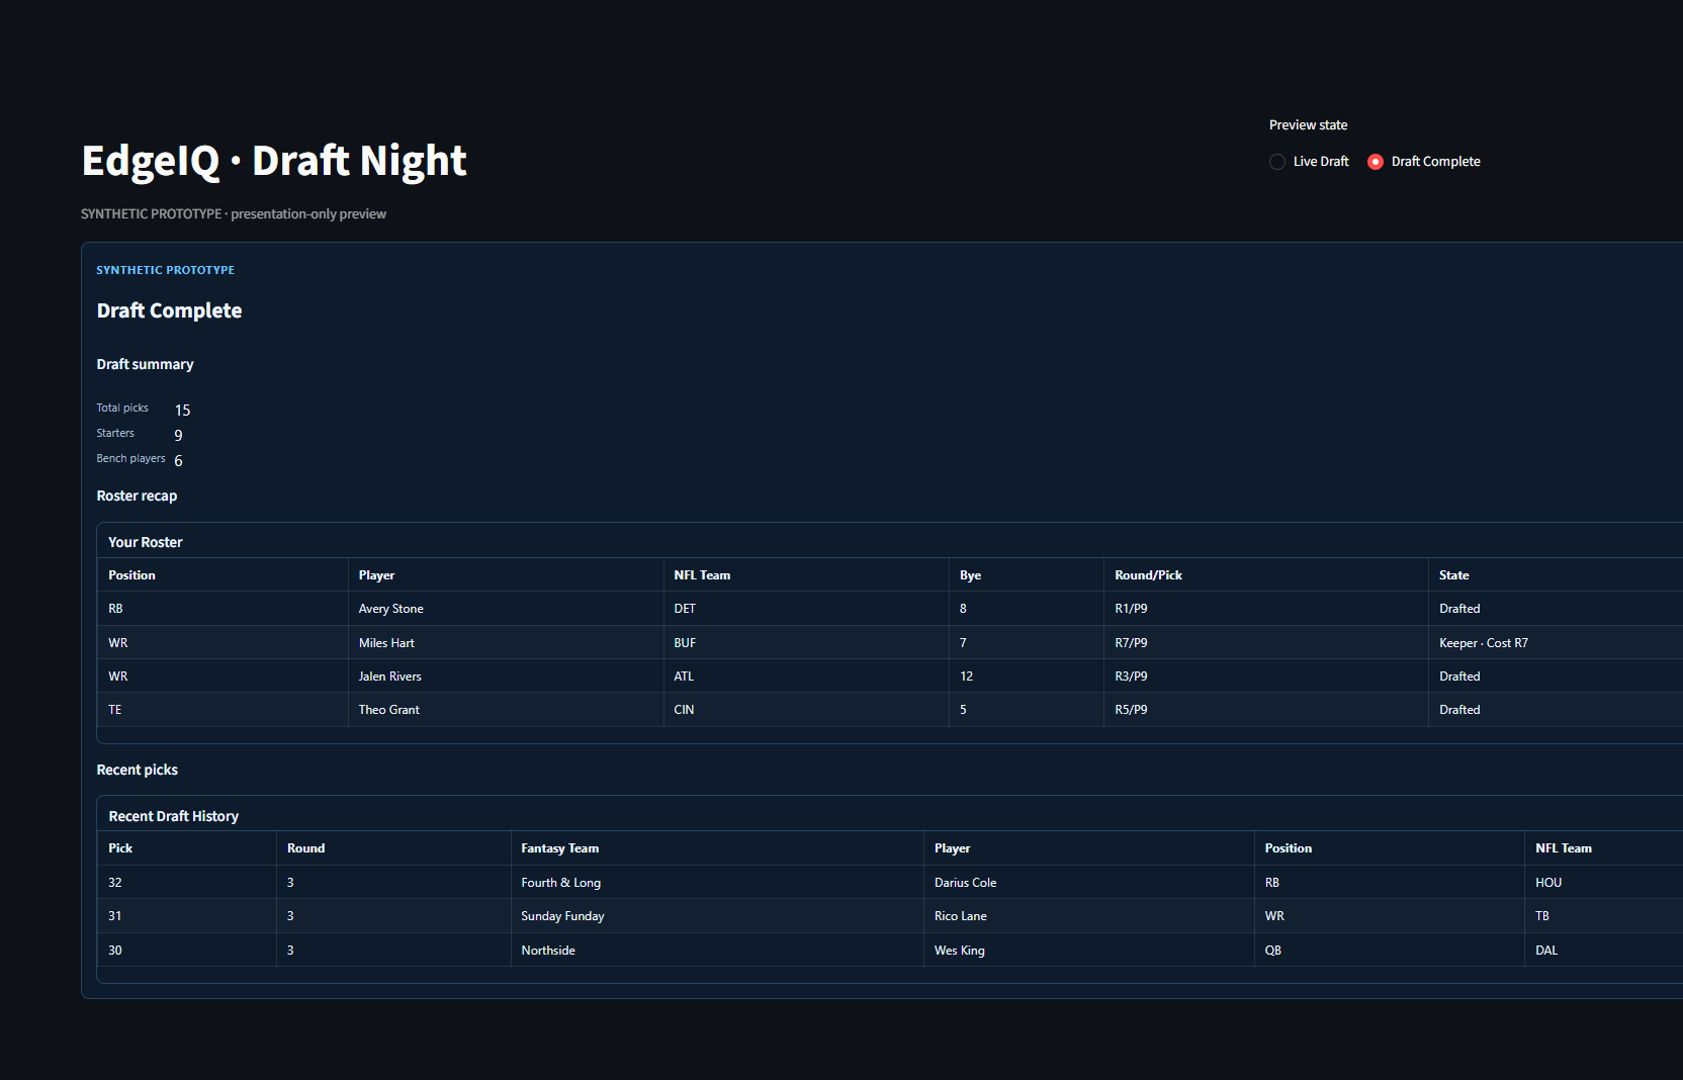
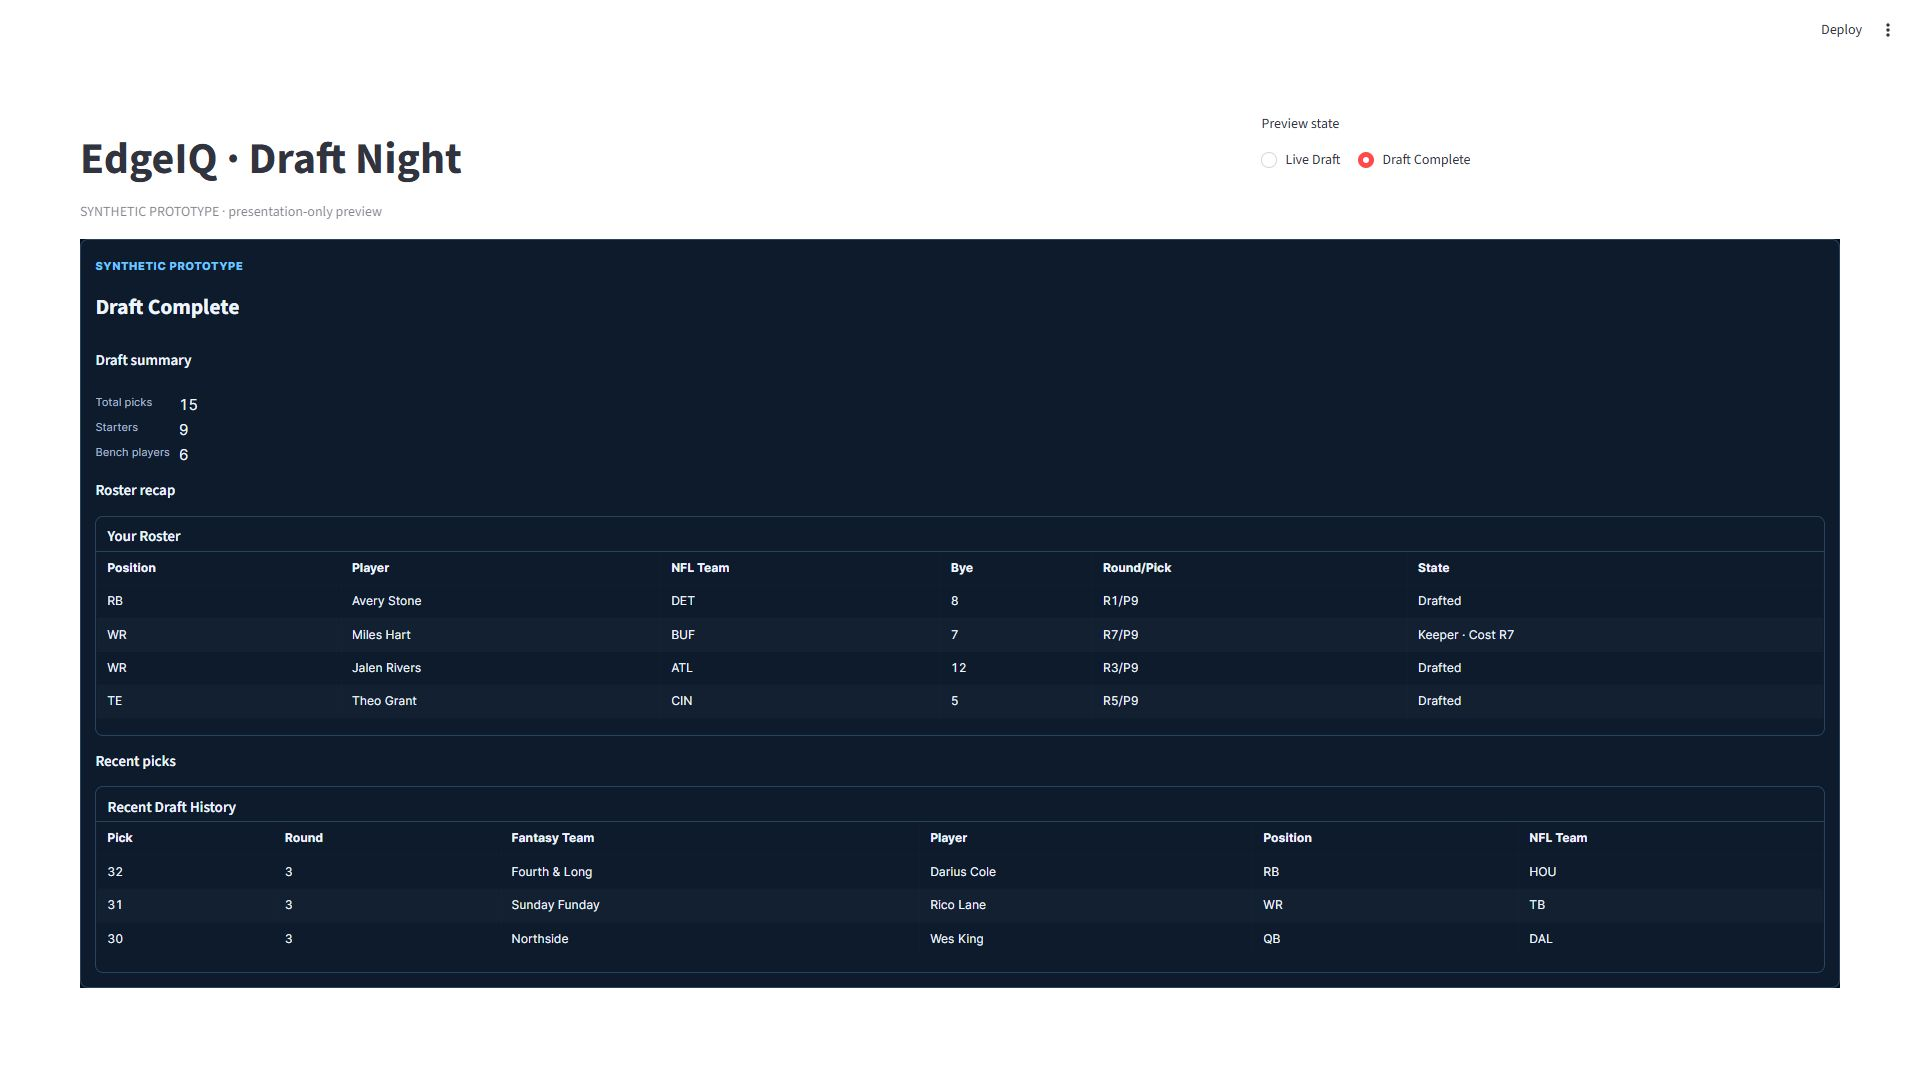
test: recapture exact draft-night wide preview

diff --git a/.superpowers/sdd/2026-08-20-edgeiq-draft-night-frontend-prototype/task-4-report.md b/.superpowers/sdd/2026-08-20-edgeiq-draft-night-frontend-prototype/task-4-report.md
@@ -14,7 +14,7 @@ The preview was started on `localhost:8517`; `GET http://localhost:8517/_stcore/
 
 ## Live Draft observations
 
-Browser inspection used the in-app browser against the running local preview.
+Initial browser inspection used the in-app browser against the running local preview. The corrected wide evidence capture described below used the available Chrome extension backend after that in-app session disconnected.
 
 | Viewport | Page overflow | Board / right rail | Scroll and sticky header | Header and contrast |
 | --- | --- | --- | --- | --- |
@@ -25,7 +25,7 @@ At both viewports, the board is the dominant live surface, the right rail remain
 
 ## Draft Complete observation (1920 x 1080)
 
-The state selector was switched in the running preview. The `Draft Complete` heading is prominent at `y = 275` (21.6 px); its heading-to-panel contrast measured 15.80:1. The complete card fills a conclusive `1750 x 749` hierarchy and includes `Draft summary`, `Roster recap`, and `Recent picks`; the roster and history tables end at y=719 and y=956 respectively, within the 1080 px viewport. There is no horizontal overflow (`1920 / 1920`).
+The state selector was switched in the running preview. The `Draft Complete` heading is prominent at `y = 275` (21.6 px); its heading-to-panel contrast measured 15.80:1. The complete card fills a conclusive hierarchy and includes `Draft summary`, `Roster recap`, and `Recent picks`; the roster and history tables end at y=719 and y=956 respectively. There is no horizontal overflow (`1920 / 1920`). The corrected Chrome capture measured the complete card at `(80, 239.19)` with a `1760 x 749.30` extent, right edge `1840`, and bottom edge `988.48`; both its right and bottom borders are inside the captured frame.
 
 ## Defect found and correction
 
@@ -42,3 +42,9 @@ The first live inspection exposed only seven player rows (`scrollHeight = client
 - `artifacts/draft-night-preview-1920x1080.png` — Draft Complete, 1920 x 1080. The separate wide Live Draft inspection is recorded above.
 - `..\\..\\.venv\\Scripts\\python.exe -m pytest tests\\test_draft_night_preview_components.py -q --basetemp=.pytest-tmp-task4-wide-green` — `14 passed in 0.25s`.
 - In-app browser console-error check — no errors.
+
+## Evidence correction: exact wide PNG
+
+The reviewer correctly found that the original wide artifact was `1683 x 1080`, not the required `1920 x 1080`, and that it cropped the complete card's right edge. It has been replaced with a real Chrome extension-browser capture.
+
+Chrome's viewport control was set to `1920 x 1249` so the full complete card was visible. The browser captured the actual page frame with `clip = (0, 0, 1920, 1080)`, producing an exact `1920 x 1080` PNG. Independent `System.Drawing.Image` inspection reports `WIDTH=1920 HEIGHT=1080`. Browser geometry confirms the complete card's right edge (`1840`) and bottom edge (`988.48`) are within that captured frame; visual inspection confirms both outer borders are present.
